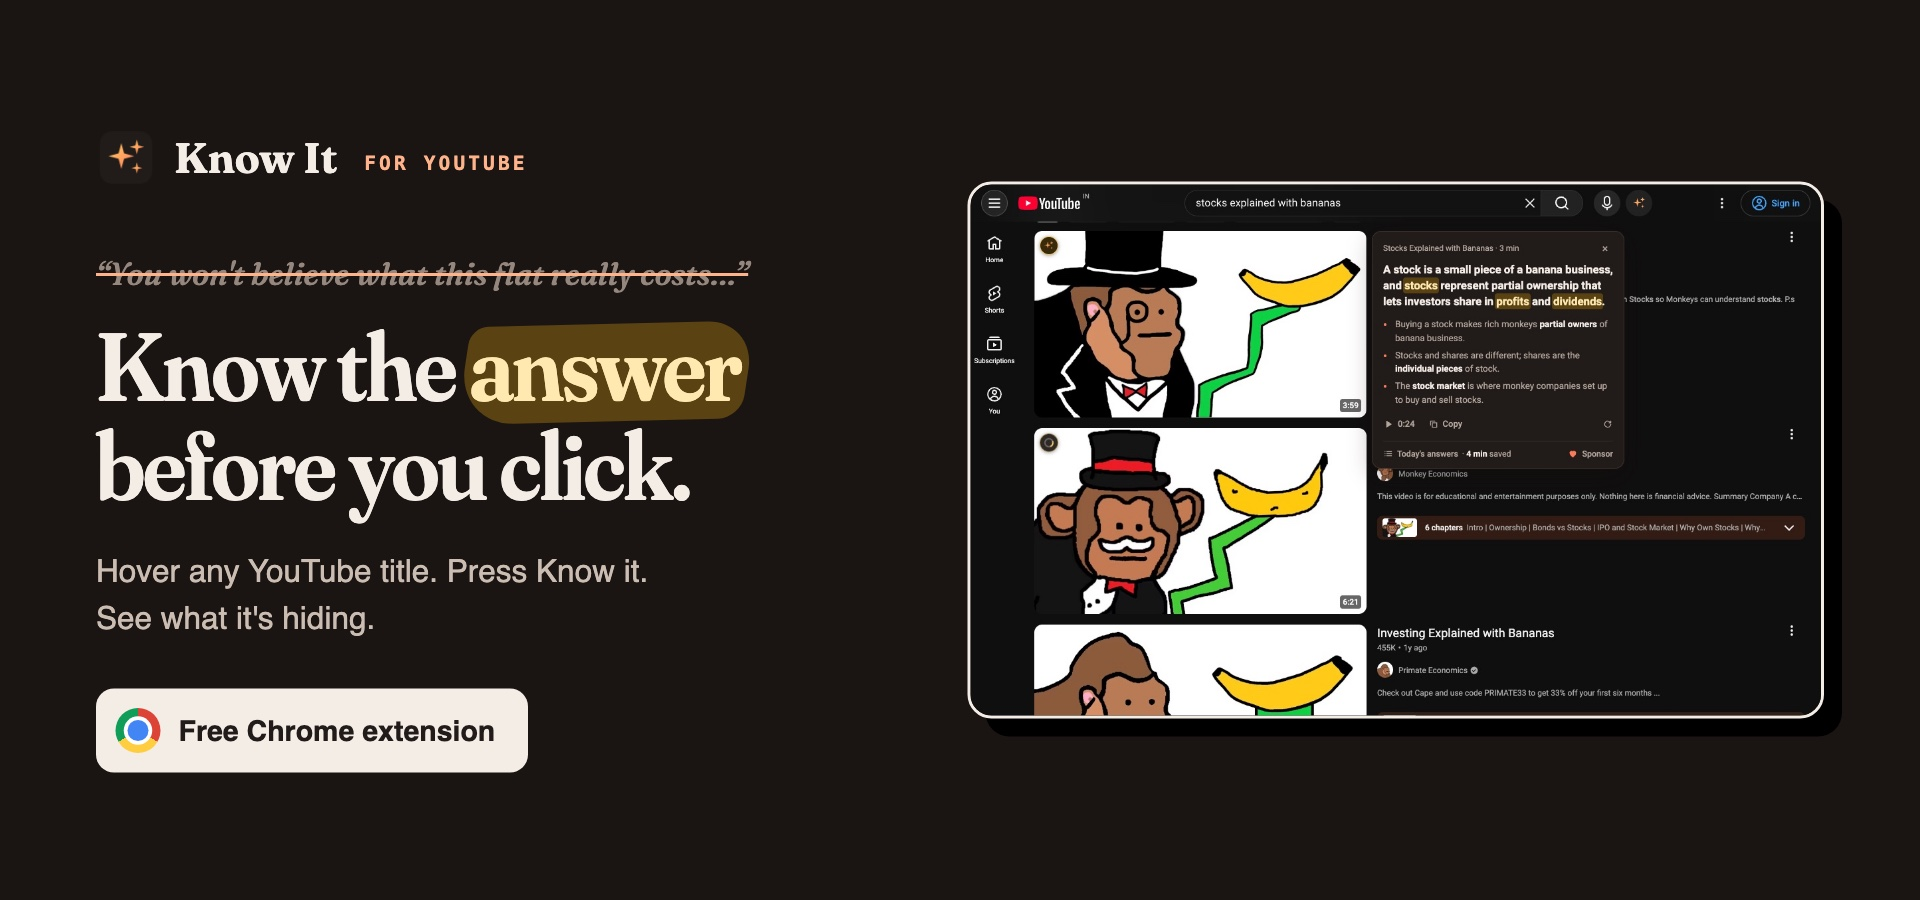
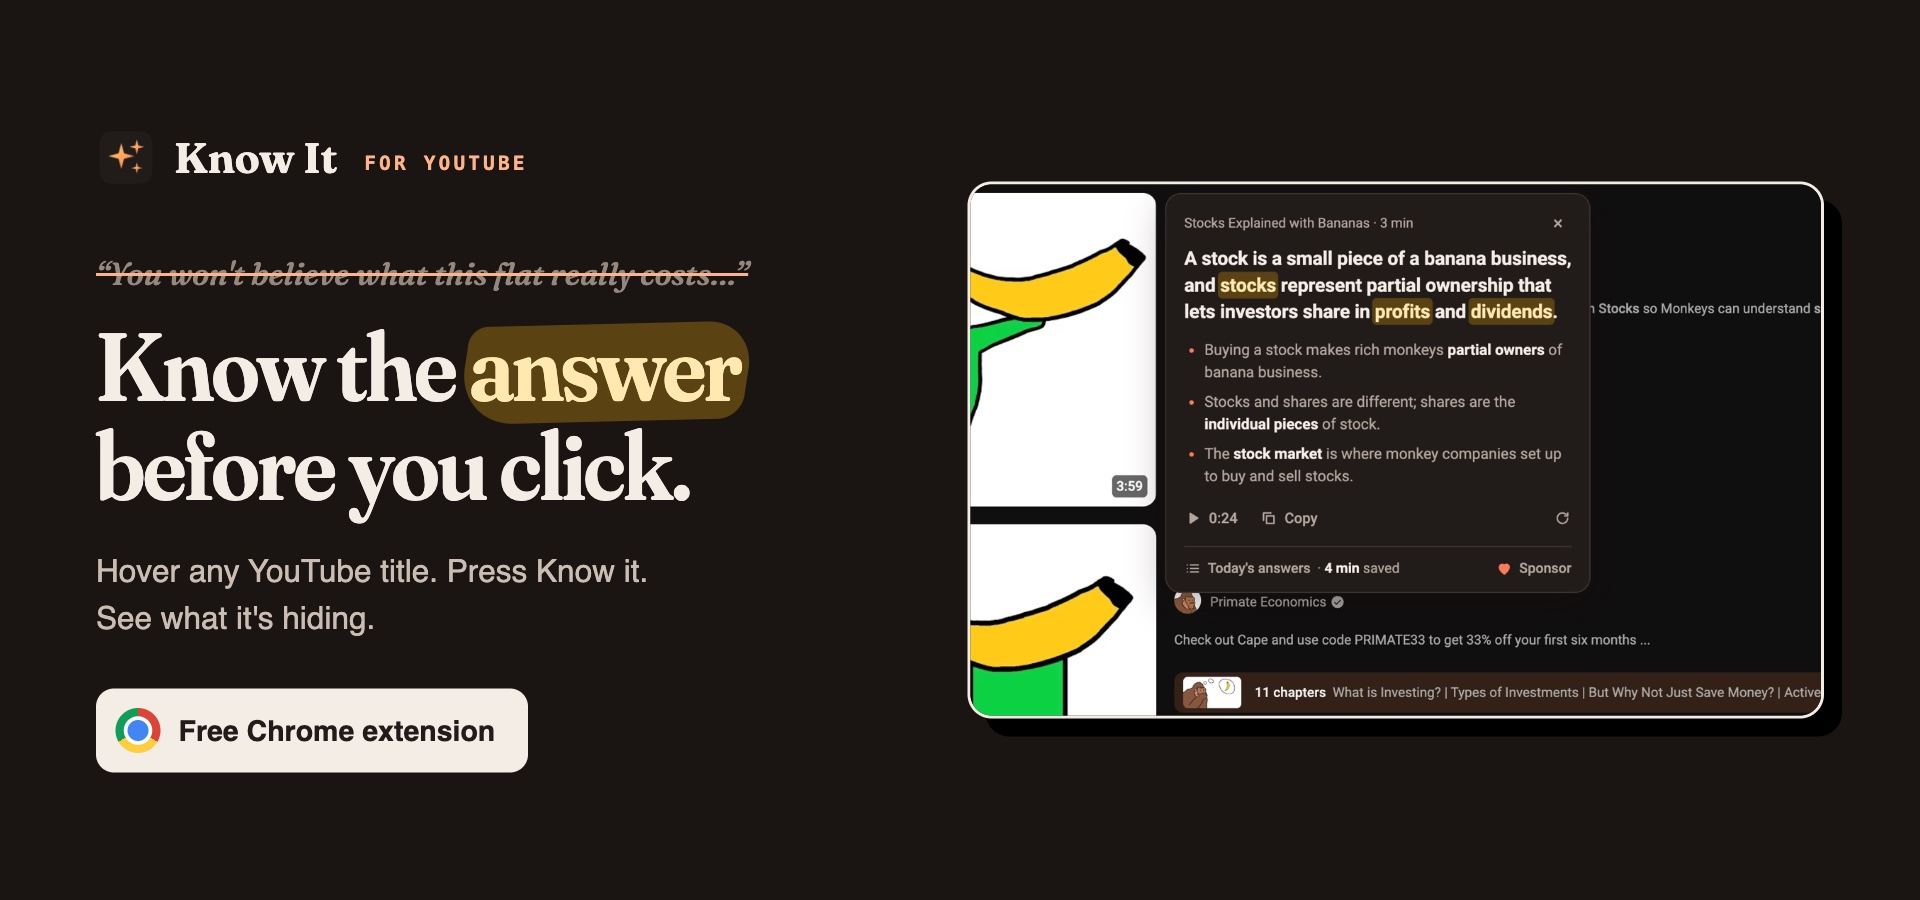
README: sharp light/dark demo GIF, real answers and feature screenshots

diff --git a/README.md b/README.md
@@ -12,7 +12,65 @@
 
 **Know It** is a free Chrome extension that answers a YouTube headline without opening the video. Point at a thumbnail, press **Know it**, and get what the title is teasing (the movie, the stock, the price) in one line, with a timestamp to check it.
 
-It runs on your own free Gemini key. No account, no server, no analytics. [See it in action →](https://getknowit.github.io)
+It runs on your own free Gemini key. No account, no server, no analytics.
+
+## See it work
+
+<picture>
+  <source media="(prefers-color-scheme: dark)" srcset=".github/assets/readme/demo-dark.gif">
+  <img src=".github/assets/readme/demo-light.gif" alt="Hovering a YouTube thumbnail, pressing Know it, and the answer appearing over the results" width="100%">
+</picture>
+
+## Titles, answered
+
+Real answers Know It gave, not written by hand.
+
+| The title asks… | Know It says |
+|---|---|
+| [The Best A24 Movie You've Never Seen](https://youtu.be/2Qb8g-x9380) | **A Prayer Before Dawn**, a 2017 drama set in a Thai prison. |
+| [Buy Every Share You Can: Nvidia CEO's New Favorite Stock Could 10X](https://youtu.be/NYUajUnq-gg) | **ServiceNow** (NOW), which the host thinks can reach $1 trillion by 2030. |
+| [Cost of Living in Flat in Bangalore 2025](https://youtu.be/N47fDCtRpKE) | About **₹20k to 25k a month** per head, in a shared 3BHK. |
+| [Why Huy Fong Sriracha Doesn't Taste The Same Anymore](https://youtu.be/EM_oPEK5eZE) | Huy Fong lost its pepper supplier, **Underwood Ranches**, after a legal fight. |
+| [What's the Most Expensive Single Thing?](https://youtu.be/Y-gVnj-NsuQ) | The **International Space Station**, at about $177 billion. |
+
+## What you get
+
+<table>
+  <tr>
+    <td width="50%" valign="top">
+      <picture>
+        <source media="(prefers-color-scheme: dark)" srcset=".github/assets/readme/button-dark.jpg">
+        <img src=".github/assets/readme/button-light.jpg" alt="A Know it button on a YouTube thumbnail">
+      </picture>
+      <b>On every thumbnail.</b> Hover a video in search, Home or the sidebar and <b>Know it</b> is right there. Also beside Like and in Shorts.
+    </td>
+    <td width="50%" valign="top">
+      <picture>
+        <source media="(prefers-color-scheme: dark)" srcset=".github/assets/readme/loading-dark.jpg">
+        <img src=".github/assets/readme/loading-light.jpg" alt="One thumbnail marked ready, one still loading">
+      </picture>
+      <b>Keep scrolling.</b> Ask about a few. A ring shows the ones still working, a spark marks the ones that are ready.
+    </td>
+  </tr>
+  <tr>
+    <td width="50%" valign="top">
+      <picture>
+        <source media="(prefers-color-scheme: dark)" srcset=".github/assets/readme/answer-dark.jpg">
+        <img src=".github/assets/readme/answer-light.jpg" alt="Know It's answer card with the key words highlighted">
+      </picture>
+      <b>The point first.</b> One clear line, the key facts highlighted, a few points, and a timestamp that jumps to the moment it's said.
+    </td>
+    <td width="50%" valign="top">
+      <picture>
+        <source media="(prefers-color-scheme: dark)" srcset=".github/assets/readme/panel-dark.jpg">
+        <img src=".github/assets/readme/panel-light.jpg" alt="The Today's answers panel with minutes saved">
+      </picture>
+      <b>Today's answers.</b> Everything you asked today and the minutes it saved you, from YouTube's top bar or Chrome's toolbar.
+    </td>
+  </tr>
+</table>
+
+**Auto** *(off by default)* answers videos under 30 minutes 5 seconds after you open them.
 
 ## Install
 
@@ -21,13 +79,6 @@ It runs on your own free Gemini key. No account, no server, no analytics. [See i
 3. Press **Know it** on any video and paste a free key from [Google AI Studio](https://aistudio.google.com/apikey).
 
 In the EU, the UK and Switzerland, Google only allows paid keys: turn on billing for the key first. The Chrome Web Store listing is on its way.
-
-## What it does
-
-- **Know it on every thumbnail**, beside Like on the video you're watching, and in Shorts.
-- **One clear answer** with the key facts highlighted, a few points, and **Check it at** to jump to the moment it's said.
-- **Today's answers**, from YouTube's top bar, with the minutes it saved you.
-- **Auto** *(off by default)* answers videos under 30 minutes as you open them.
 
 ## Good to know
 
